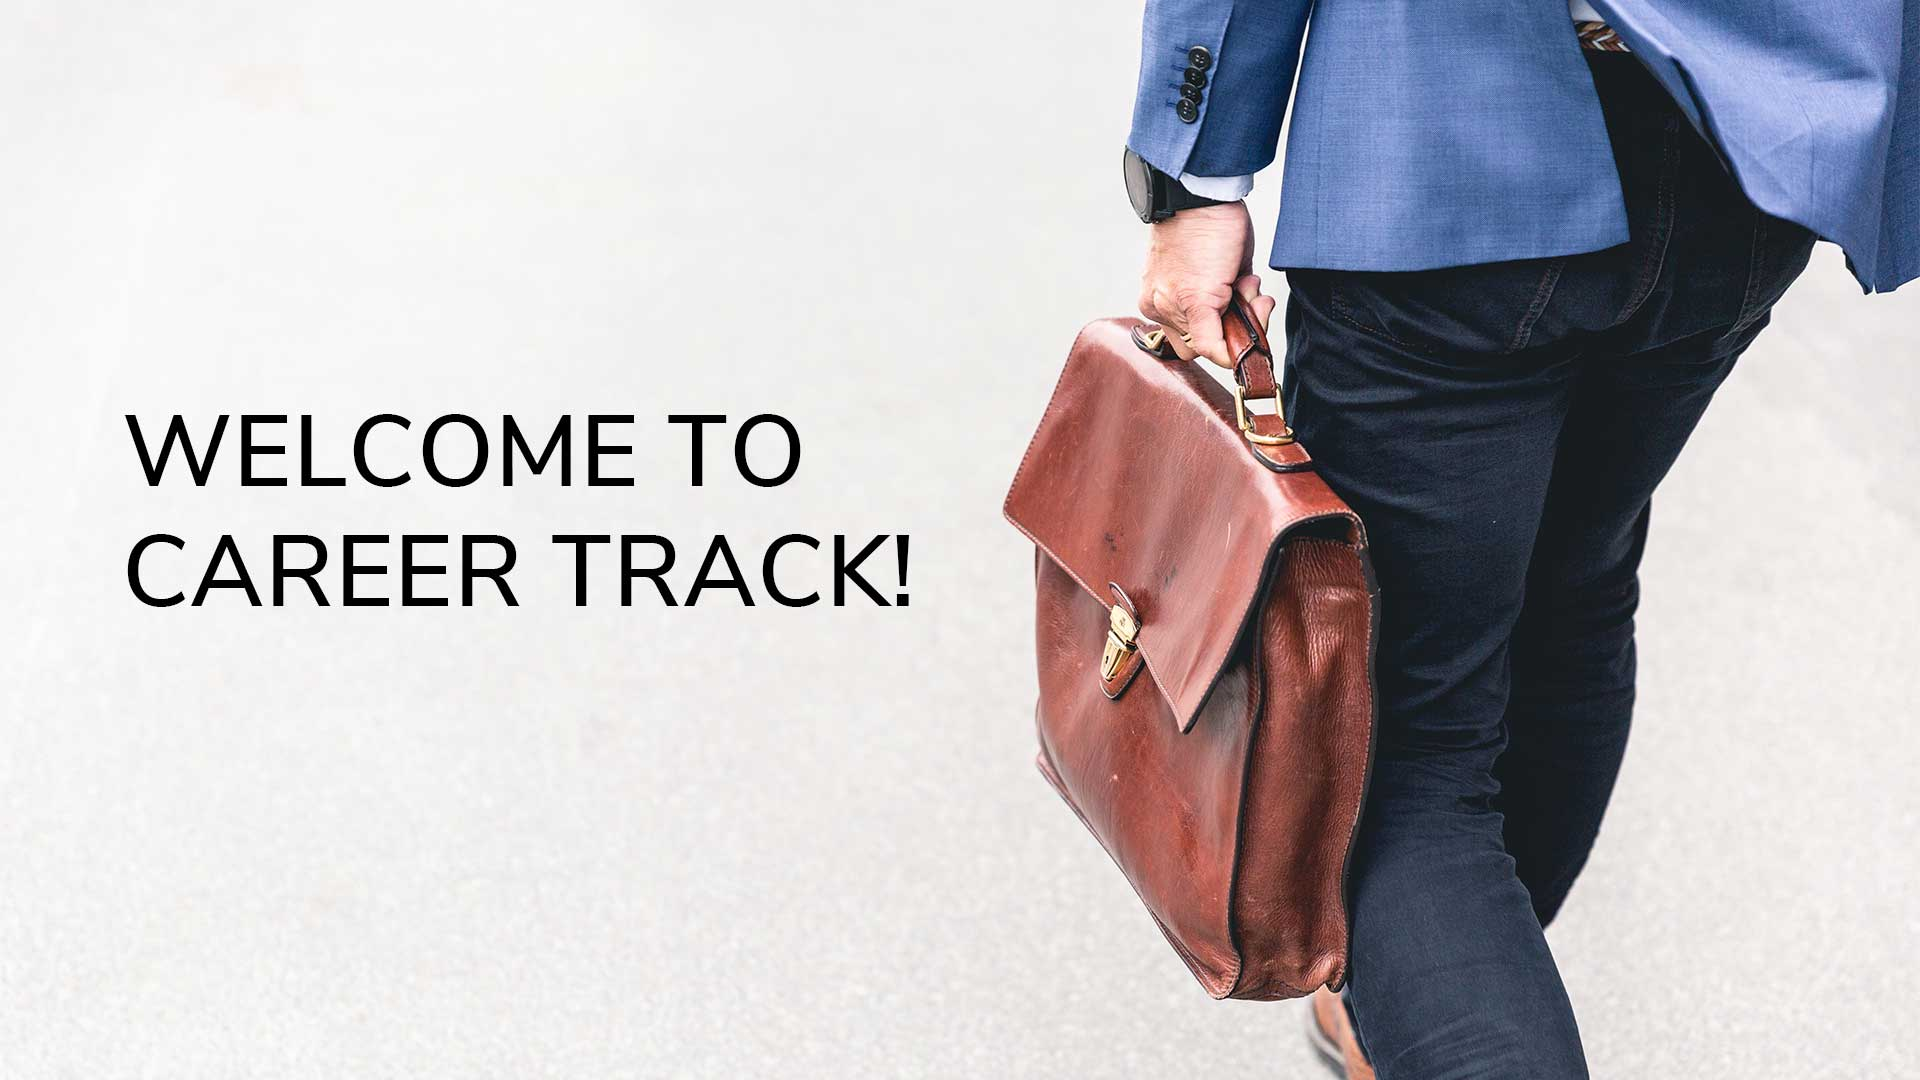
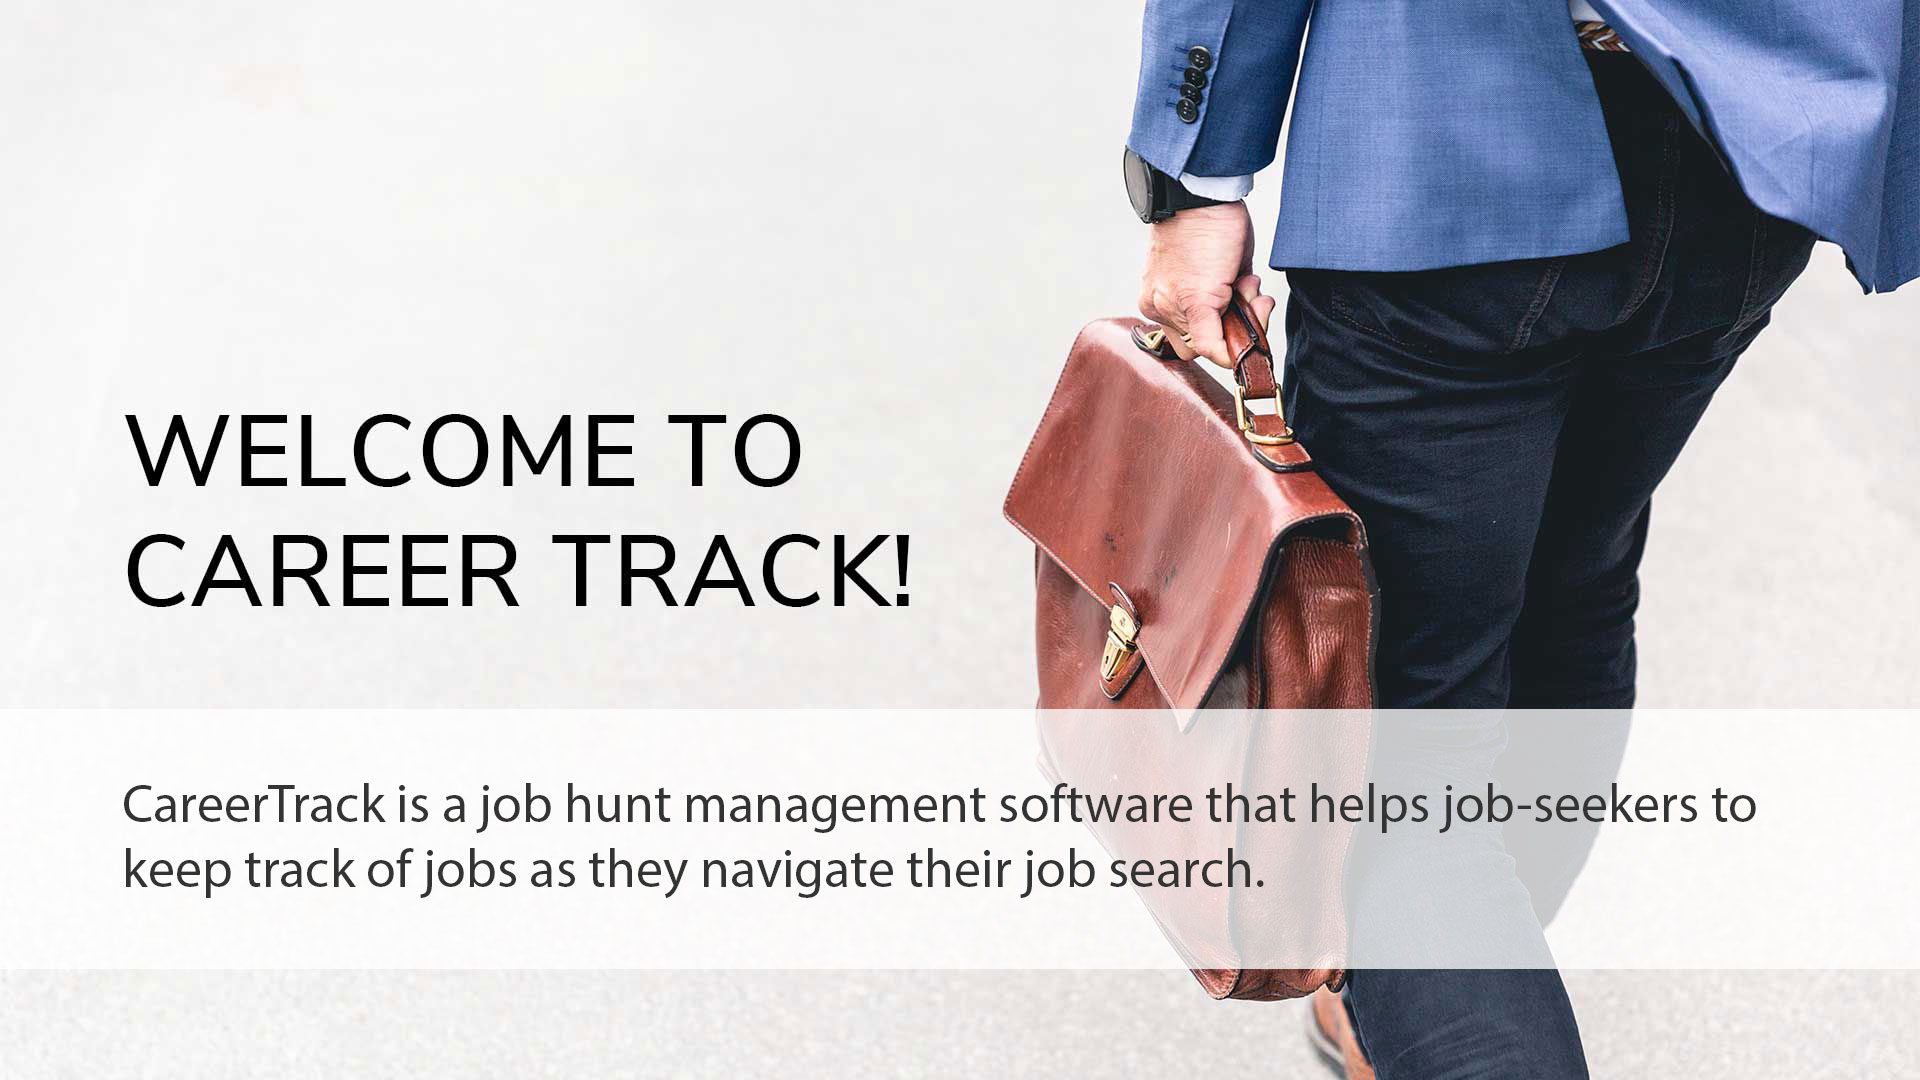
updated homepage - took out carousel and edited meet the devs section

Changed region(s): [[0.0625, 0.6417, 0.9062, 0.9167]]

diff --git a/app/javascript/react/components/HomeCarousel.js b/app/javascript/react/components/HomeCarousel.js
@@ -1,46 +1,19 @@
 import React from "react"
 import PropTypes from "prop-types"
-import Carousel from 'react-bootstrap/Carousel'
+import Image from 'react-bootstrap/Image'
 import { useState } from 'react'
 import hero1 from '../images/hero1.jpg'
-import hero2 from '../images/hero2.jpg'
-import hero3 from '../images/hero3.jpg'
 
 function HomeCarousel() {
 
-  const [index, setIndex] = useState(0);
-  const [direction, setDirection] = useState(null);
-
-  const handleSelect = (selectedIndex, e) => {
-    setIndex(selectedIndex);
-    setDirection(e.direction);
-  };
-
   return (
-    <div style= {{maxWidth: '65%', display: 'inlineBlock'}}>
-    <Carousel interval={20000} activeIndex={index} direction={direction} onSelect={handleSelect}>
-      <Carousel.Item>
-        <img
+    <div style= {{maxWidth: '65%', display: 'inlineBlock', float: 'left'}}>
+    <img
           className="d-block w-100"
           src={hero1}
-          alt="First slide"
+          alt="Welcome to Career Track! Career Track is a job hunt management software that helps job-seekers keep track of jobs as they navigate the job search"
+          fluid
         />
-      </Carousel.Item>
-      <Carousel.Item>
-        <img
-          className="d-block w-100"
-          src={hero2}
-          alt="Second slide"
-        />
-      </Carousel.Item>
-      <Carousel.Item>
-        <img
-          className="d-block w-100"
-          src={hero3}
-          alt="Third slide"
-        />
-      </Carousel.Item>
-    </Carousel>
     </div>
   );
 }

diff --git a/app/javascript/react/components/AboutUs.js b/app/javascript/react/components/AboutUs.js
@@ -10,8 +10,8 @@ import linkedin from '../images/linkedin.png'
 function AboutUs() {
     return (
       <React.Fragment>
-        <div className = "aboutus">
-          <h4>Meet the Devs</h4>
+        <div className="aboutus">
+          <h3>Meet the Devs</h3>
             <div className="bio">
               <img src={arvin} className="biophoto"/>
               <p>Arvin Lleva</p>
@@ -47,6 +47,7 @@ function AboutUs() {
                   <a href="https://www.linkedin.com/in/lisakamino/" target="_blank"><img src={linkedin} /></a>
                 </div>
               </div>
+
 
         </div>
       </React.Fragment>

diff --git a/app/assets/stylesheets/application.css b/app/assets/stylesheets/application.css
@@ -17,26 +17,26 @@
  .aboutus {
    text-align: center;
    max-width: 35%;
-   margin-top: 1.5em;
-   float: right;
+   margin-top: 4em;
+
+   display: inline-block;
  }
 
 .bio {
-  max-width: 40%;
-  padding: 1.5%;
+  padding: 1.5em;
   margin-top: 1%;
   display: inline-block;
 }
 
 .biophoto {
   max-width: 100%;
-  margin-bottom: 0.5em;
+  margin-bottom: 1em;
 }
 
 .logo img {
   padding-left: 1em;
   padding-right: 1em;
-  margin-top: -2em;
+  margin-top: -1em;
   max-width: 30%;
 
 }

diff --git a/app/javascript/react/pages/HomePage.js b/app/javascript/react/pages/HomePage.js
@@ -9,7 +9,6 @@ function HomePage() {
       <React.Fragment>
         <AboutUs />
         <HomeCarousel />
-        <AboutApp />
       </React.Fragment>
     );
 }
